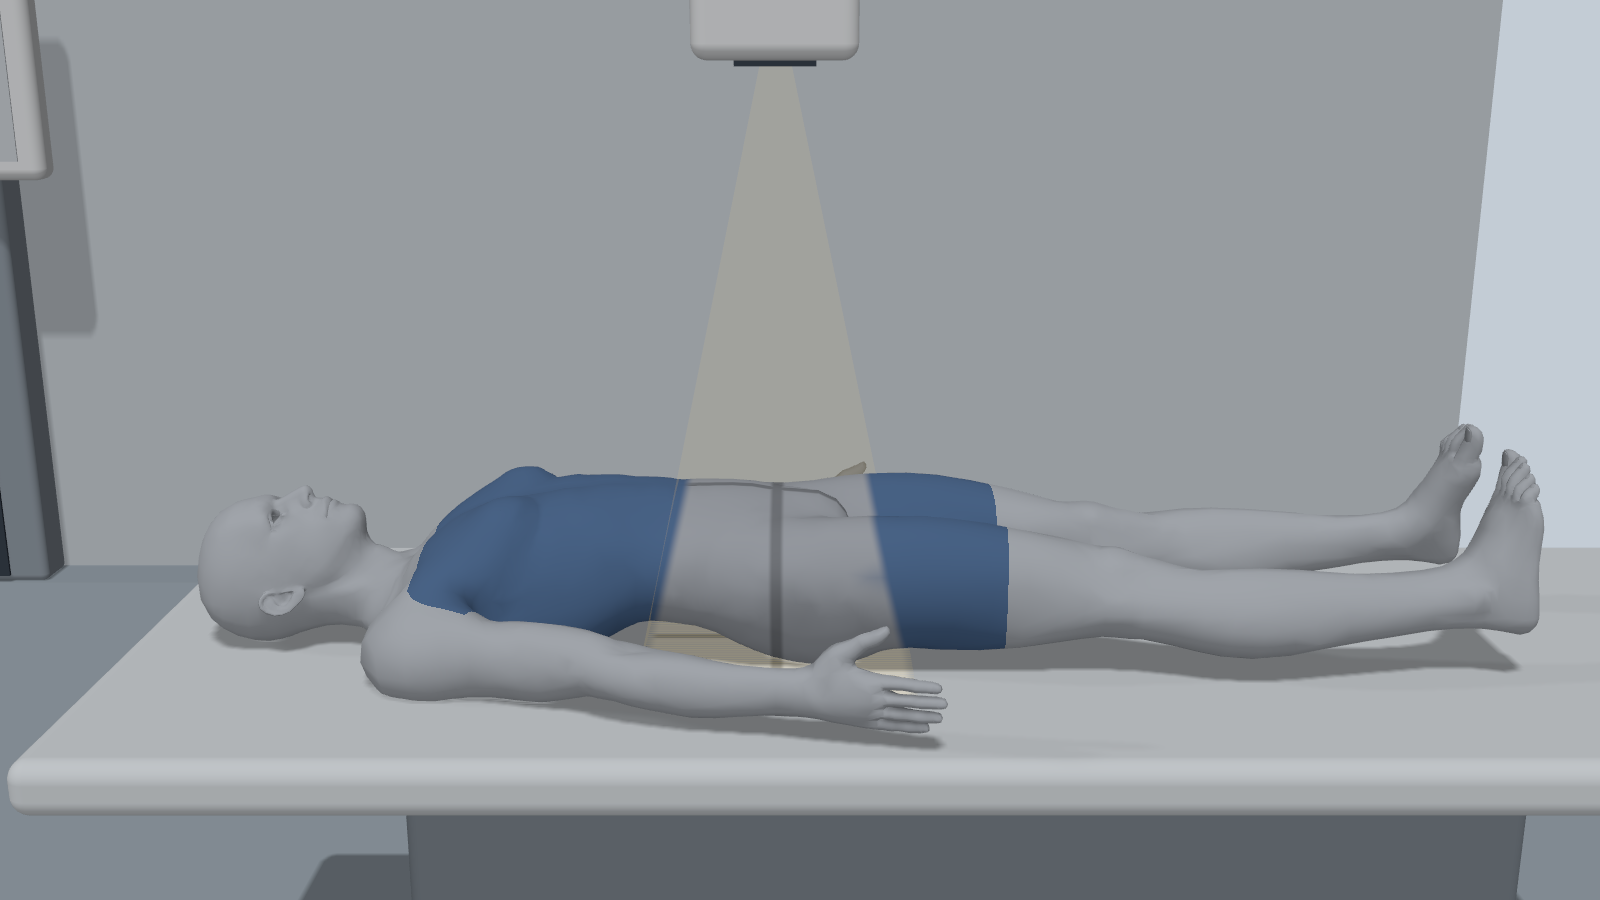
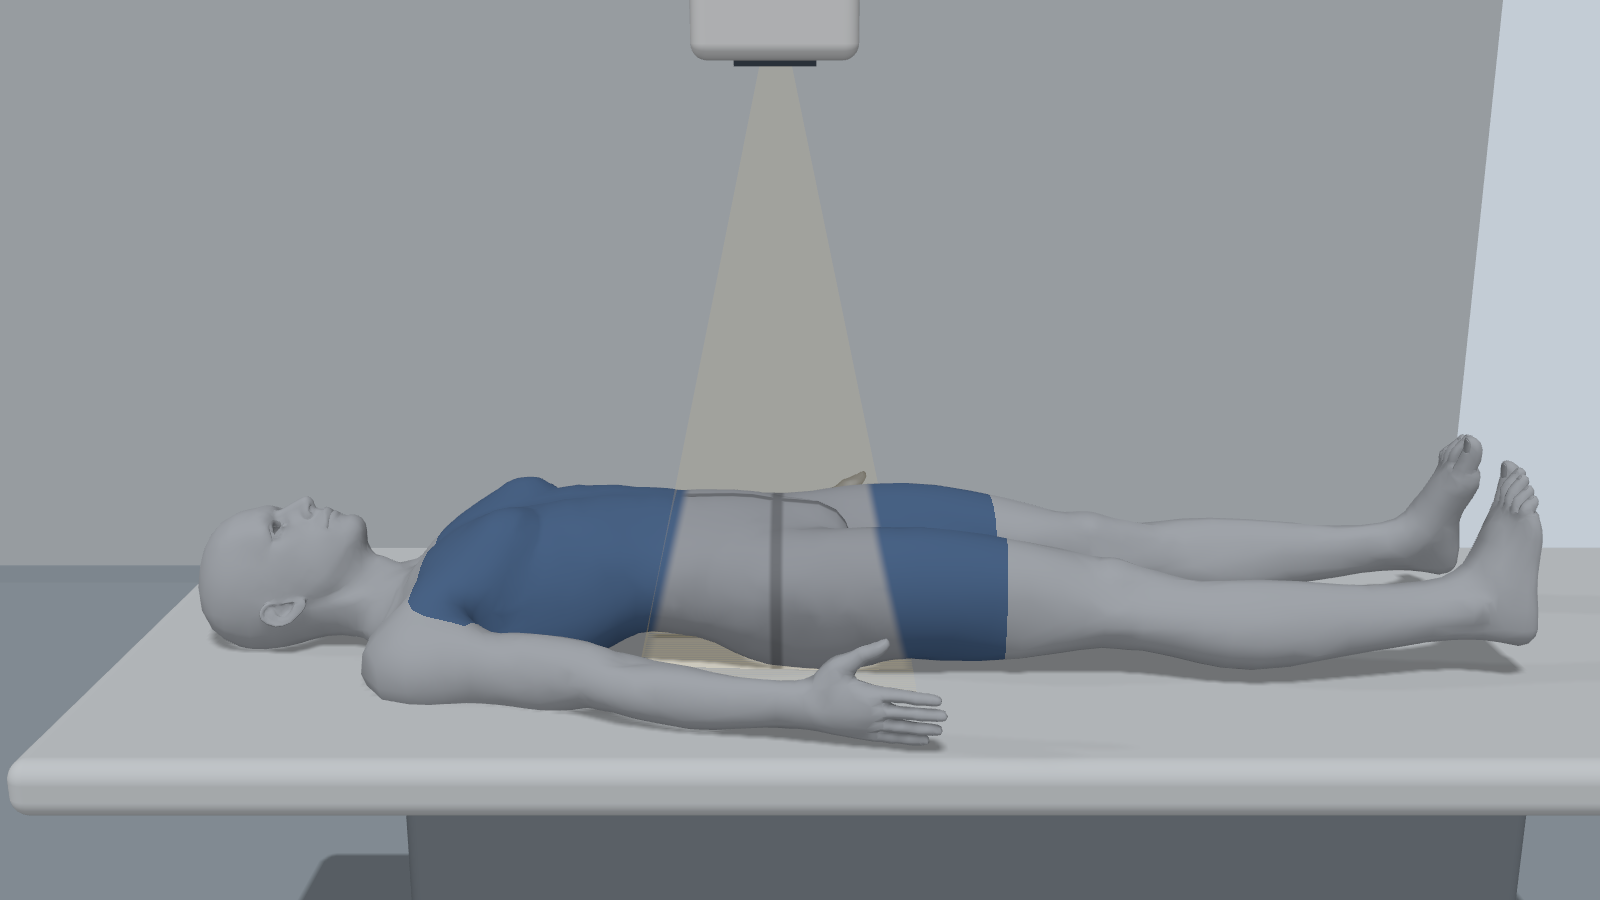
Body occlusion for painted light field + snug body-on-table
Ellipsoid body proxy in room space: surfaces whose ray to the focal
spot passes through the body no longer receive the painted field and
cross (the table behind the patient stays clean), while side spill
where the field is wider than the body remains - physically correct.
Per-preset occl params; figure sunk 1.5cm into the tabletop so the
back rests without a floating gap. Wall stand parked out of frame.

diff --git a/index.html b/index.html
@@ -129,6 +129,11 @@ figure.frustumCulled = false;   // GPU 變形不更新 bounds
 // 任何視角都貼著身體輪廓(真正在表面),取代會浮空的貼片做法
 // ============================================================
 const uBeamInv = uniform(new THREE.Matrix4());   // 世界 -> 光束局部(束軸 -Y)
+const uRoomInv = uniform(new THREE.Matrix4());   // 世界 -> 房間座標
+const uFocalR = uniform(new THREE.Vector3(0, 2, 0));   // 焦點(房間座標)
+const uOcclC = uniform(new THREE.Vector3(0, 0, 0));    // 身體遮擋橢球中心(房間座標)
+const uOcclR = uniform(new THREE.Vector3(1, 1, 1));    // 橢球半徑
+const uOcclOn = uniform(0);
 const uFieldW = uniform(0.24);
 const uFieldH = uniform(0.30);
 const uBeamLen = uniform(1.0);
@@ -149,8 +154,27 @@ function beamPaint(base) {
   const crossX = smoothstep(float(0.004), float(0.011), abs(posB.x)).oneMinus();
   const crossZ = smoothstep(float(0.004), float(0.011), abs(posB.z)).oneMinus();
   const crossBand = max(crossX, crossZ);
-  let c = base.add(color("#ffeab5").mul(fieldMask.mul(0.34)));
-  c = mix(c, c.mul(0.55), fieldMask.mul(crossBand));
+
+  // 身體遮擋:焦點->表面點 的射線若穿過身體橢球 = 在身體影子裡,不畫光野
+  // (橢球座標正規化後解二次式;表面點本身在橢球內 = 身體自己,照常畫)
+  const posR = uRoomInv.mul(vec4(positionWorld, 1)).xyz;
+  const o = uFocalR.sub(uOcclC).div(uOcclR);
+  const dv = posR.sub(uFocalR).div(uOcclR);
+  const qA = dv.dot(dv);
+  const qB = o.dot(dv).mul(2);
+  const qC = o.dot(o).sub(1);
+  const disc = qB.mul(qB).sub(qA.mul(qC).mul(4));
+  const sq = disc.max(0).sqrt();
+  const t0 = qB.negate().sub(sq).div(qA.mul(2));
+  const t1 = qB.negate().add(sq).div(qA.mul(2));
+  const hit = step(float(0.0001), disc).mul(step(t0, float(0.97))).mul(step(float(0.03), t1));
+  const pp = posR.sub(uOcclC).div(uOcclR);
+  const isBody = step(pp.dot(pp), float(1.15));
+  const lit = hit.mul(isBody.oneMinus()).mul(uOcclOn).oneMinus();
+
+  const fm = fieldMask.mul(lit);
+  let c = base.add(color("#ffeab5").mul(fm.mul(0.34)));
+  c = mix(c, c.mul(0.55), fm.mul(crossBand));
   return c;
 }
 
@@ -384,7 +408,8 @@ const S = {
   tube: { x: -0.9, z: 0.14, h: 1.50, pitch: 90, yaw: 0, fieldW: 0.24, fieldH: 0.30, beamOn: 1 },
   ws:   { h: 1.50 },
   det:  { x: 1.38, z: 0.55, on: 0 },
-  room: { lie: 0, ox: 0, oy: 0, oz: 0 }   // lie=1 -> 房間旋轉(人偶保持站立=圖面上躺下)
+  room: { lie: 0, ox: 0, oy: 0, oz: 0 },   // lie=1 -> 房間旋轉(人偶保持站立=圖面上躺下)
+  occl: null   // 身體遮擋橢球 {x,y,z,rx,ry,rz}(房間座標),光野/十字不畫進身體影子
 };
 
 /* ============================================================
@@ -508,6 +533,16 @@ function applyAll() {
   uCrossOn.value = S.tube.beamOn ? 1 : 0;
   beamGroup.updateWorldMatrix(true, false);
   uBeamInv.value.copy(beamGroup.matrixWorld).invert();
+  // 身體遮擋橢球(房間座標)
+  uRoomInv.value.copy(ROOMG.matrixWorld).invert();
+  uFocalR.value.set(S.tube.x, GL + S.tube.h, S.tube.z);
+  if (S.occl) {
+    uOcclOn.value = 1;
+    uOcclC.value.set(S.occl.x, S.occl.y, S.occl.z);
+    uOcclR.value.set(S.occl.rx, S.occl.ry, S.occl.rz);
+  } else {
+    uOcclOn.value = 0;
+  }
 
   if (figure.update) figure.update();
 
@@ -527,6 +562,7 @@ const PRESETS = {
     joints: { "l_arm.z": -72, "r_arm.z": -72, "head.x": -8 },
     tube: { x: -0.9, z: 0.14, h: 1.50, pitch: 90, yaw: 0, fieldW: 0.24, fieldH: 0.30, beamOn: 1 },
     ws: { h: 1.50 }, det: { x: 1.38, z: 0.55, on: 0 },
+    occl: { x: -0.9, y: 0.95, z: -1.40, rx: 0.26, ry: 0.95, rz: 0.16 },
     cam: { px: 1.4, py: 1.8, pz: 1.5, tx: -0.75, ty: 1.4, tz: -1.3 }
   },
   "pelvis-ap": {
@@ -535,7 +571,7 @@ const PRESETS = {
     // 本院 SOP:雙腿略分開並內旋 15-20 度(股骨頸平行偵檢板);CR 垂直射入 ASIS 下方 5cm;SID 102
     // disfigure 關節左右內建鏡像:對稱動作用「同號」(兩腿內旋 = 都 -18)
     // ASIS 世界 y≈1.00 -> CR room x = 1.47-0.95 = 0.52
-    fig: { x: 0, z: 0.87, y: 0, rotY: 0, rotZ: 0 },
+    fig: { x: 0, z: 0.855, y: 0, rotY: 0, rotZ: 0 },   // z 比檯面略沉 1.5cm,背部貼實不懸空
     joints: {
       "l_arm.z": -72, "r_arm.z": -72,
       "l_leg.z": 4, "r_leg.z": 4,
@@ -543,7 +579,8 @@ const PRESETS = {
     },
     room: { lie: 1, ox: 0.55, oy: 1.47, oz: 0 },
     tube: { x: 0.52, z: 0.55, h: 1.76, pitch: 0, yaw: 0, fieldW: 0.35, fieldH: 0.43, beamOn: 1 },
-    ws: { h: 1.45, x: -1.7 }, det: { x: 1.38, z: 0.55, on: 0 },   // 壁架移往頭側遠處,別擠在構圖裡
+    ws: { h: 1.45, x: -2.3 }, det: { x: 1.38, z: 0.55, on: 0 },   // 壁架完全移出構圖(深色滑軌會像背景裡的一條線)
+    occl: { x: 0.6, y: 0.87, z: 0.55, rx: 0.92, ry: 0.14, rz: 0.22 },   // 身體影子:光野/十字不畫到身後檯面
     cam: { px: 1.9, py: 2.0, pz: 2.3, tx: 0.6, ty: 0.7, tz: 0.45 }
   },
   "ankle-ap": {
@@ -555,6 +592,7 @@ const PRESETS = {
     room: { lie: 1, ox: 0.55, oy: 1.47, oz: 0 },
     tube: { x: 1.38, z: 0.55, h: 1.78, pitch: 0, yaw: 0, fieldW: 0.18, fieldH: 0.24, beamOn: 1 },
     ws: { h: 1.45 }, det: { x: 1.38, z: 0.55, on: 1 },
+    occl: { x: 0.6, y: 0.87, z: 0.55, rx: 0.92, ry: 0.14, rz: 0.22 },
     cam: { px: 2.4, py: 1.6, pz: 2.2, tx: 0.9, ty: 0.85, tz: 0.5 }
   }
 };
@@ -567,6 +605,7 @@ function applyPreset(key) {
   Object.assign(S.ws, p.ws);
   Object.assign(S.det, p.det);
   S.room = p.room ? { ...p.room } : { lie: 0, ox: 0, oy: 0, oz: 0 };
+  S.occl = p.occl ? { ...p.occl } : null;
   resetPose();
   for (const [path, v] of Object.entries(p.joints || {})) setJoint(path, v);
   applyAll();
@@ -710,7 +749,7 @@ for (const [title, defs] of Object.entries(JOINT_DEFS)) {
 {
   const g = addGroup("壁架與偵檢板", true);
   addSlider(g, "壁架板高 (m)", 0.4, 1.9, 0.01, () => S.ws.h, v => S.ws.h = v);
-  addSlider(g, "壁架 X (m)", -2.0, 0.2, 0.01, () => (S.ws.x === undefined ? -0.9 : S.ws.x), v => S.ws.x = v);
+  addSlider(g, "壁架 X (m)", -2.4, 0.2, 0.01, () => (S.ws.x === undefined ? -0.9 : S.ws.x), v => S.ws.x = v);
   addSlider(g, "檯板顯示", 0, 1, 1, () => S.det.on, v => S.det.on = v);
   addSlider(g, "檯板 X (m)", -0.4, 2.0, 0.01, () => S.det.x, v => S.det.x = v);
   addSlider(g, "檯板 Z (m)", 0.1, 1.0, 0.01, () => S.det.z, v => S.det.z = v);